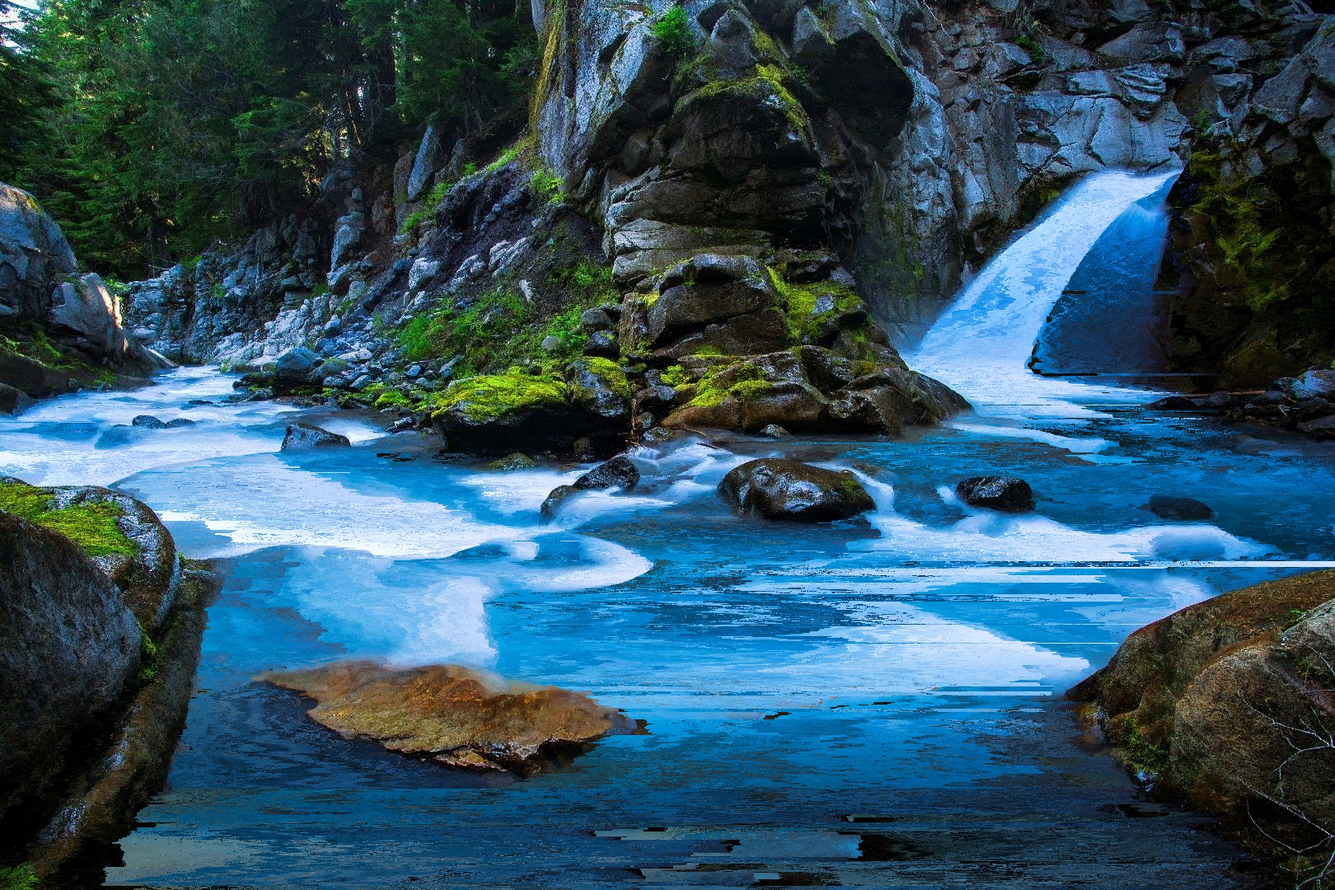
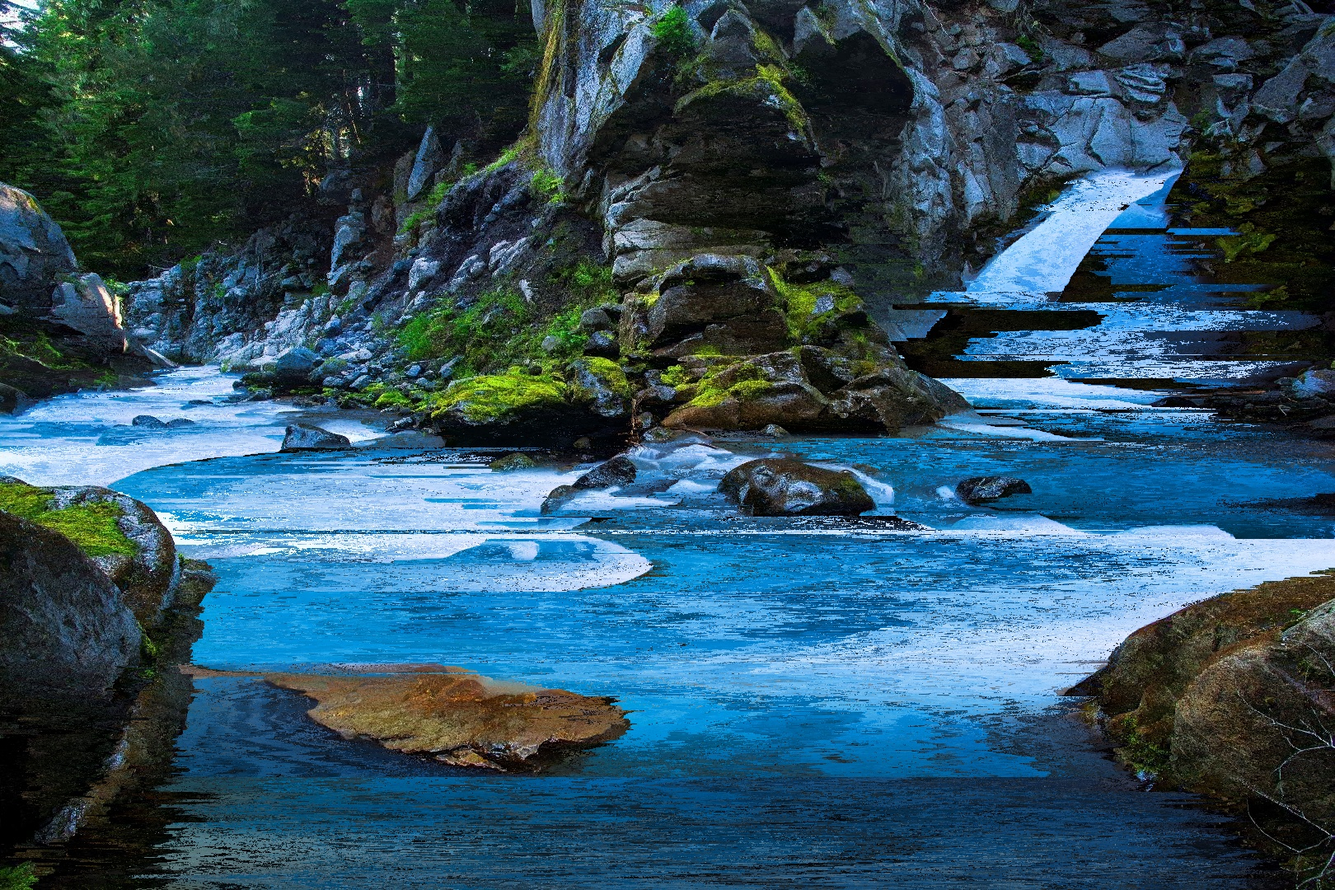
this workes now

diff --git a/sort.py b/sort.py
@@ -69,4 +69,4 @@ if __name__ == "__main__":
     # Example usage
     input_folder = "input"  # Folder containing input images
     output_folder = "sorted_images"  # Folder to save sorted images
-    process_folder(input_folder, output_folder, canny_low=30, canny_high=100, sort_key='hue')
+    process_folder(input_folder, output_folder, canny_low=100, canny_high=200, sort_key='hue')
